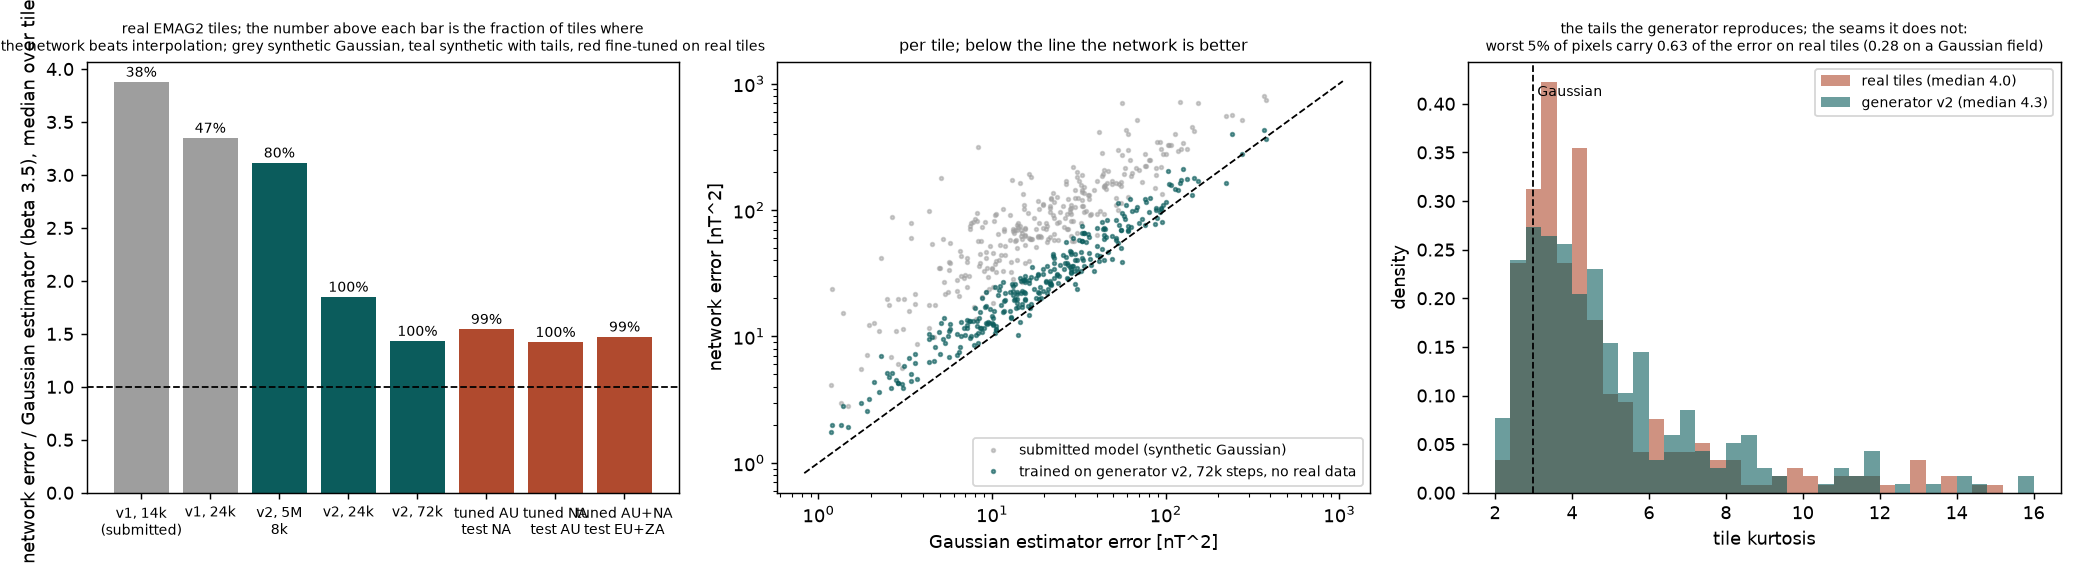
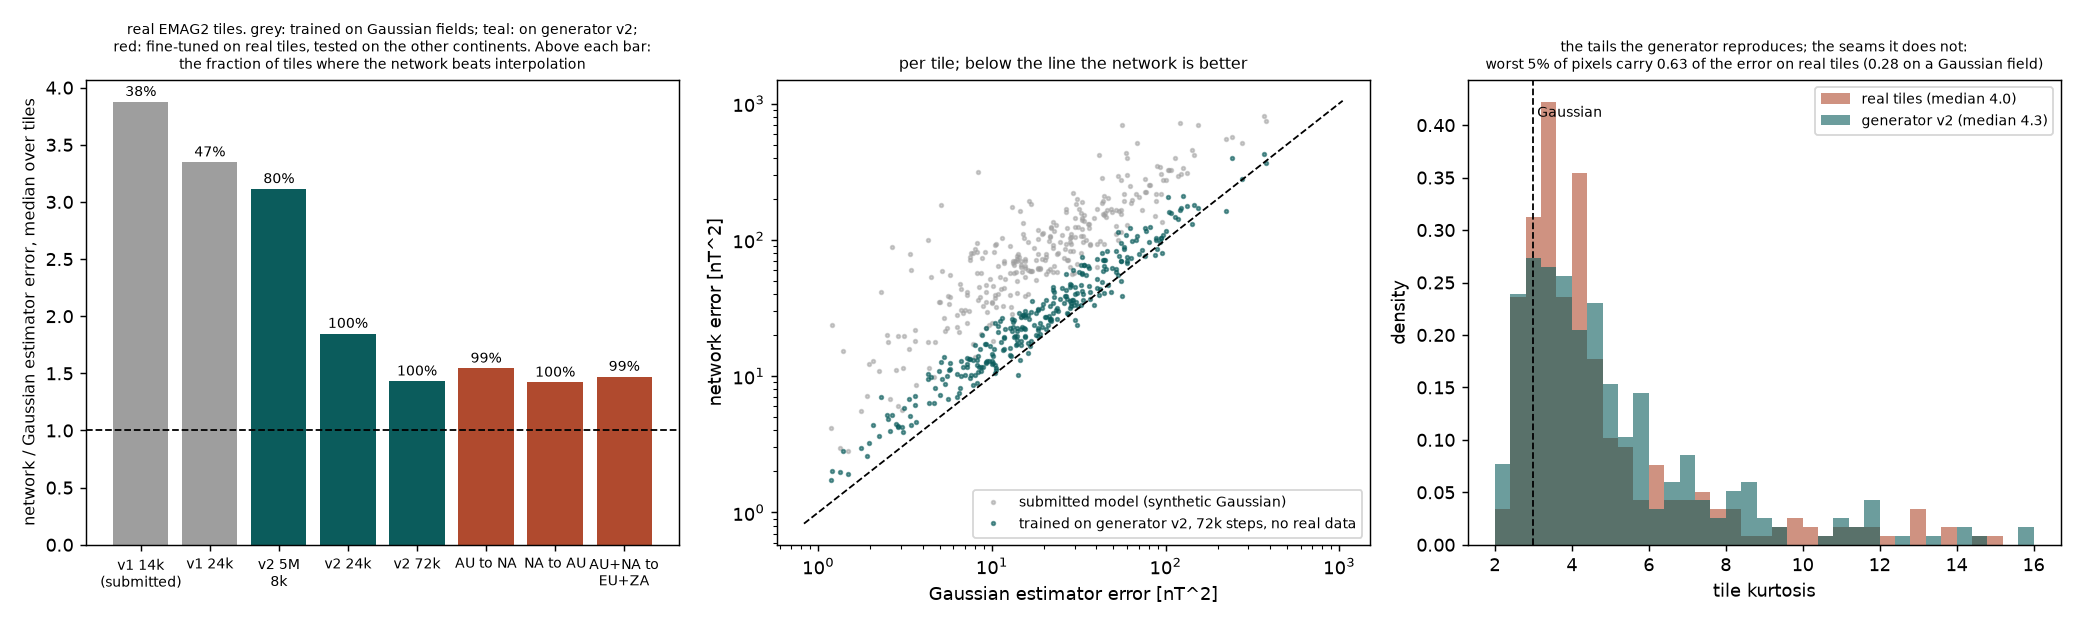
extension figure; base evaluation with the error-concentration statistic

diff --git a/magscale/plots.py b/magscale/plots.py
@@ -224,13 +224,13 @@ def extension(out):
     the same real tiles, the per-tile picture before and after, and the tail statistics the
     generator was built to match."""
     import numpy as np
-    order = [("emag2.json", "v1, 14k\n(submitted)"), ("emag2_gen1_24k.json", "v1, 24k"), ("emag2_gen2_5M.json", "v2, 5M\n8k"),
-             ("emag2_gen2.json", "v2, 24k"), ("emag2_gen2_72k.json", "v2, 72k"),
-             ("emag2_ft_aus.json", "tuned AU\ntest NA"), ("emag2_ft_na.json", "tuned NA\ntest AU"), ("emag2_ft_ausna.json", "tuned AU+NA\ntest EU+ZA")]
+    order = [("emag2.json", "v1 14k\n(submitted)"), ("emag2_gen1_24k.json", "v1 24k"), ("emag2_gen2_5M.json", "v2 5M\n8k"),
+             ("emag2_gen2.json", "v2 24k"), ("emag2_gen2_72k.json", "v2 72k"),
+             ("emag2_ft_aus.json", "AU to NA"), ("emag2_ft_na.json", "NA to AU"), ("emag2_ft_ausna.json", "AU+NA to\nEU+ZA")]
     rows = [(lab, json.load(open("results/" + f))) for f, lab in order if os.path.exists("results/" + f)]
     if len(rows) < 2:
         print("extension figure needs the tagged EMAG2 results"); return
-    fig, ax = plt.subplots(1, 3, figsize=(16, 4.4))
+    fig, ax = plt.subplots(1, 3, figsize=(16, 4.8))
     labs = [r[0] for r in rows]; s = [r[1]["summary"]["all"] for r in rows]
     x = np.arange(len(rows))
     cols = ["#9e9e9e" if "v1" in l else "#0b5c5c" if "v2" in l else "#b04a2e" for l in labs]
@@ -238,8 +238,8 @@ def extension(out):
     ax[0].axhline(1.0, color="k", lw=1, ls="--")
     for i, v in enumerate(s):
         ax[0].text(i, v["network_over_wiener_beta35_median"] + 0.05, f"{v['frac_network_beats_interp']*100:.0f}%", ha="center", fontsize=8)
-    ax[0].set_xticks(x); ax[0].set_xticklabels(labs, fontsize=7.5); ax[0].set_ylabel("network error / Gaussian estimator (beta 3.5), median over tiles")
-    ax[0].set_title("real EMAG2 tiles; the number above each bar is the fraction of tiles where\nthe network beats interpolation; grey synthetic Gaussian, teal synthetic with tails, red fine-tuned on real tiles", fontsize=8)
+    ax[0].set_xticks(x); ax[0].set_xticklabels(labs, fontsize=7.5); ax[0].set_ylabel("network / Gaussian estimator error, median over tiles", fontsize=9)
+    ax[0].set_title("real EMAG2 tiles. grey: trained on Gaussian fields; teal: on generator v2;\nred: fine-tuned on real tiles, tested on the other continents. Above each bar:\nthe fraction of tiles where the network beats interpolation", fontsize=8)
     # per tile, before and after, on the same 300 tiles
     base = json.load(open("results/emag2.json"))["tiles"]
     after = json.load(open("results/emag2_gen2_72k.json"))["tiles"] if os.path.exists("results/emag2_gen2_72k.json") else None
